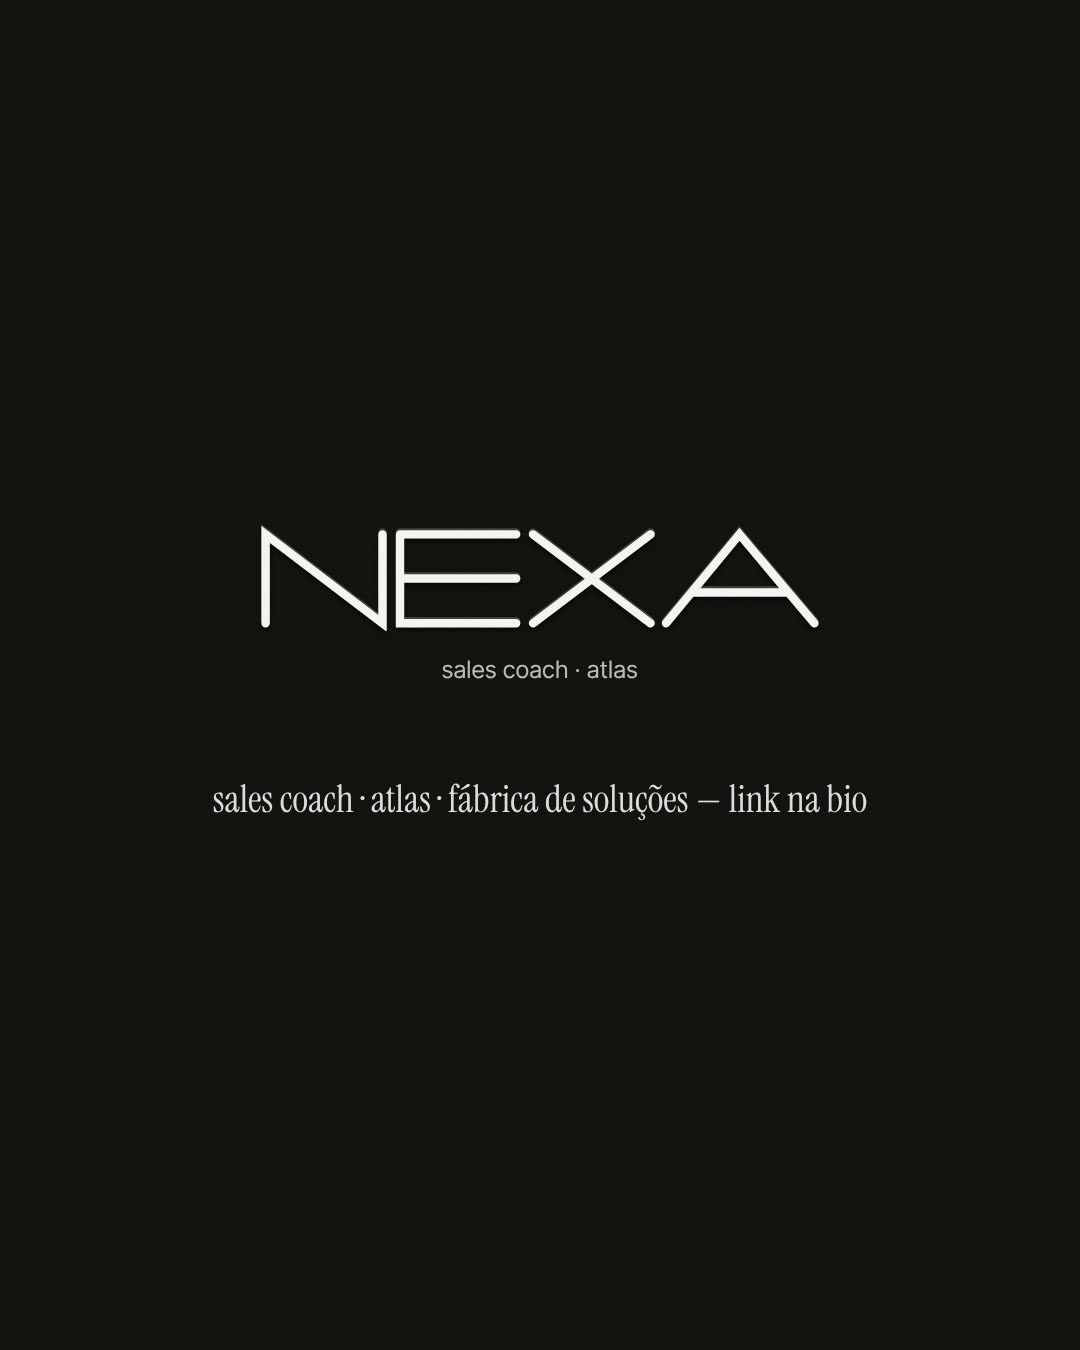
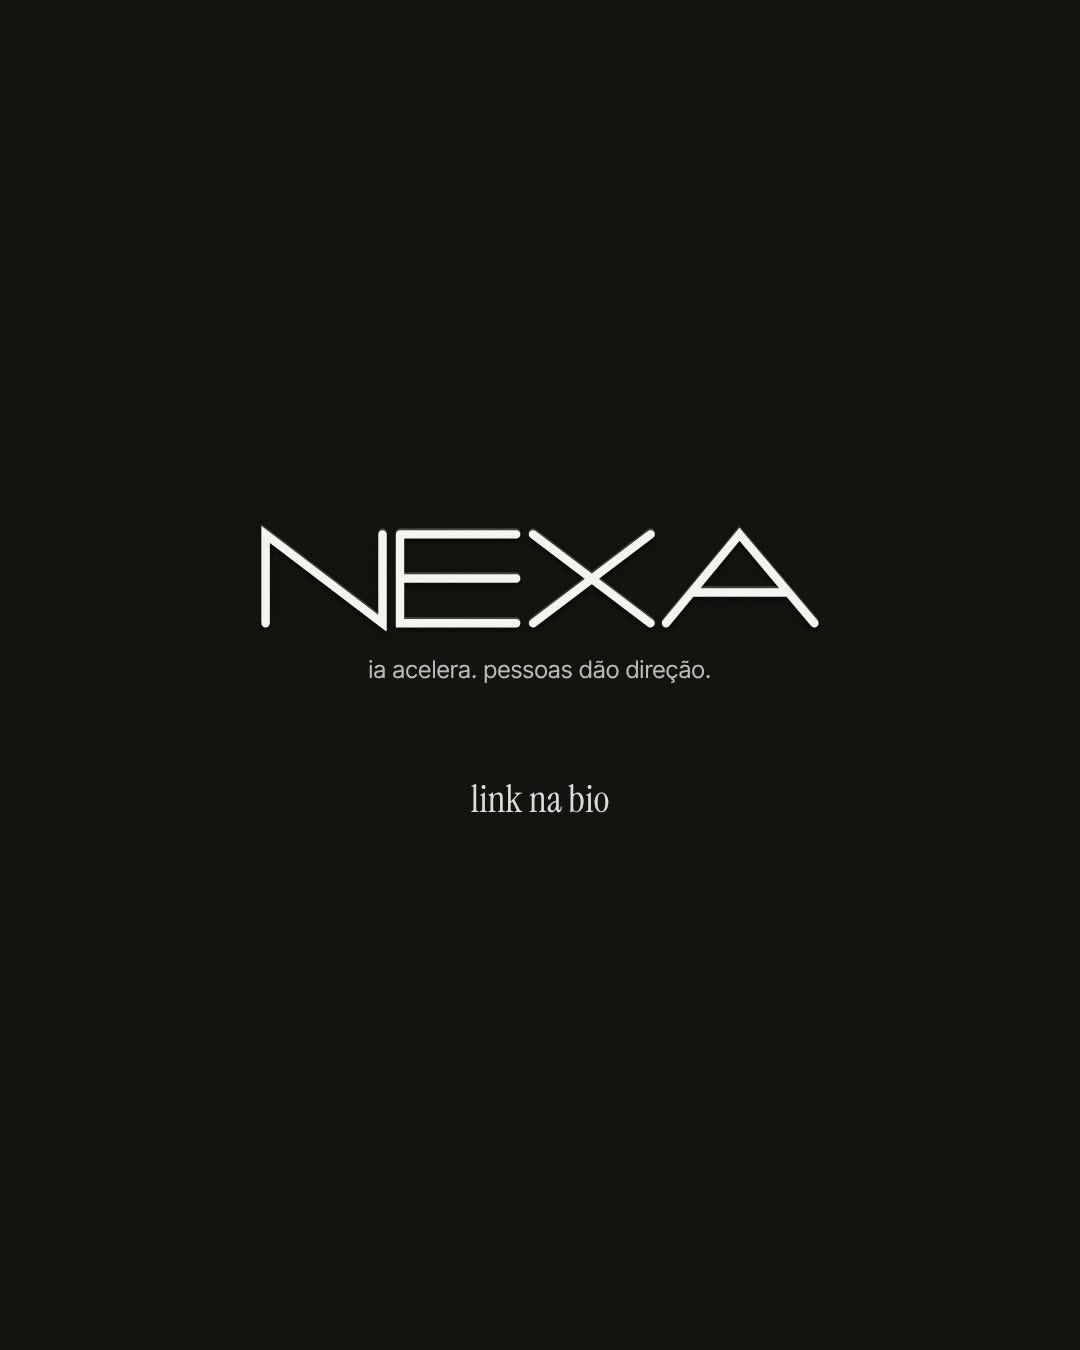
Carrossel do dólar: tela final com o slogan da NEXA no lugar dos produtos
Claude-Session: https://claude.ai/code/session_01D69rV6pxRKedanUm525i1S

diff --git a/social/serie-nowdays/dados.js b/social/serie-nowdays/dados.js
@@ -88,7 +88,7 @@ const POSTS = [
         b: 'ia não deixa a empresa imune ao dólar. ela deixa a empresa **menos dependente de contratar** para crescer.' },
       { tipo: 'citacao', frase: 'em tempo de custo alto, eficiência é estratégia.', cred: 'nexa' },
       { tipo: 'fecha', texto: 'o melhor momento para implementar ia é **antes** de precisar cortar.', cta: 'salva pra discutir com seu time' },
-      { tipo: 'marca', cta: 'sales coach · atlas · fábrica de soluções — link na bio' },
+      { tipo: 'marca', sub: 'ia acelera. pessoas dão direção.', cta: 'link na bio' },
     ],
   },
   // ───────────────────────────── SALES COACH ─────────────────────────────
